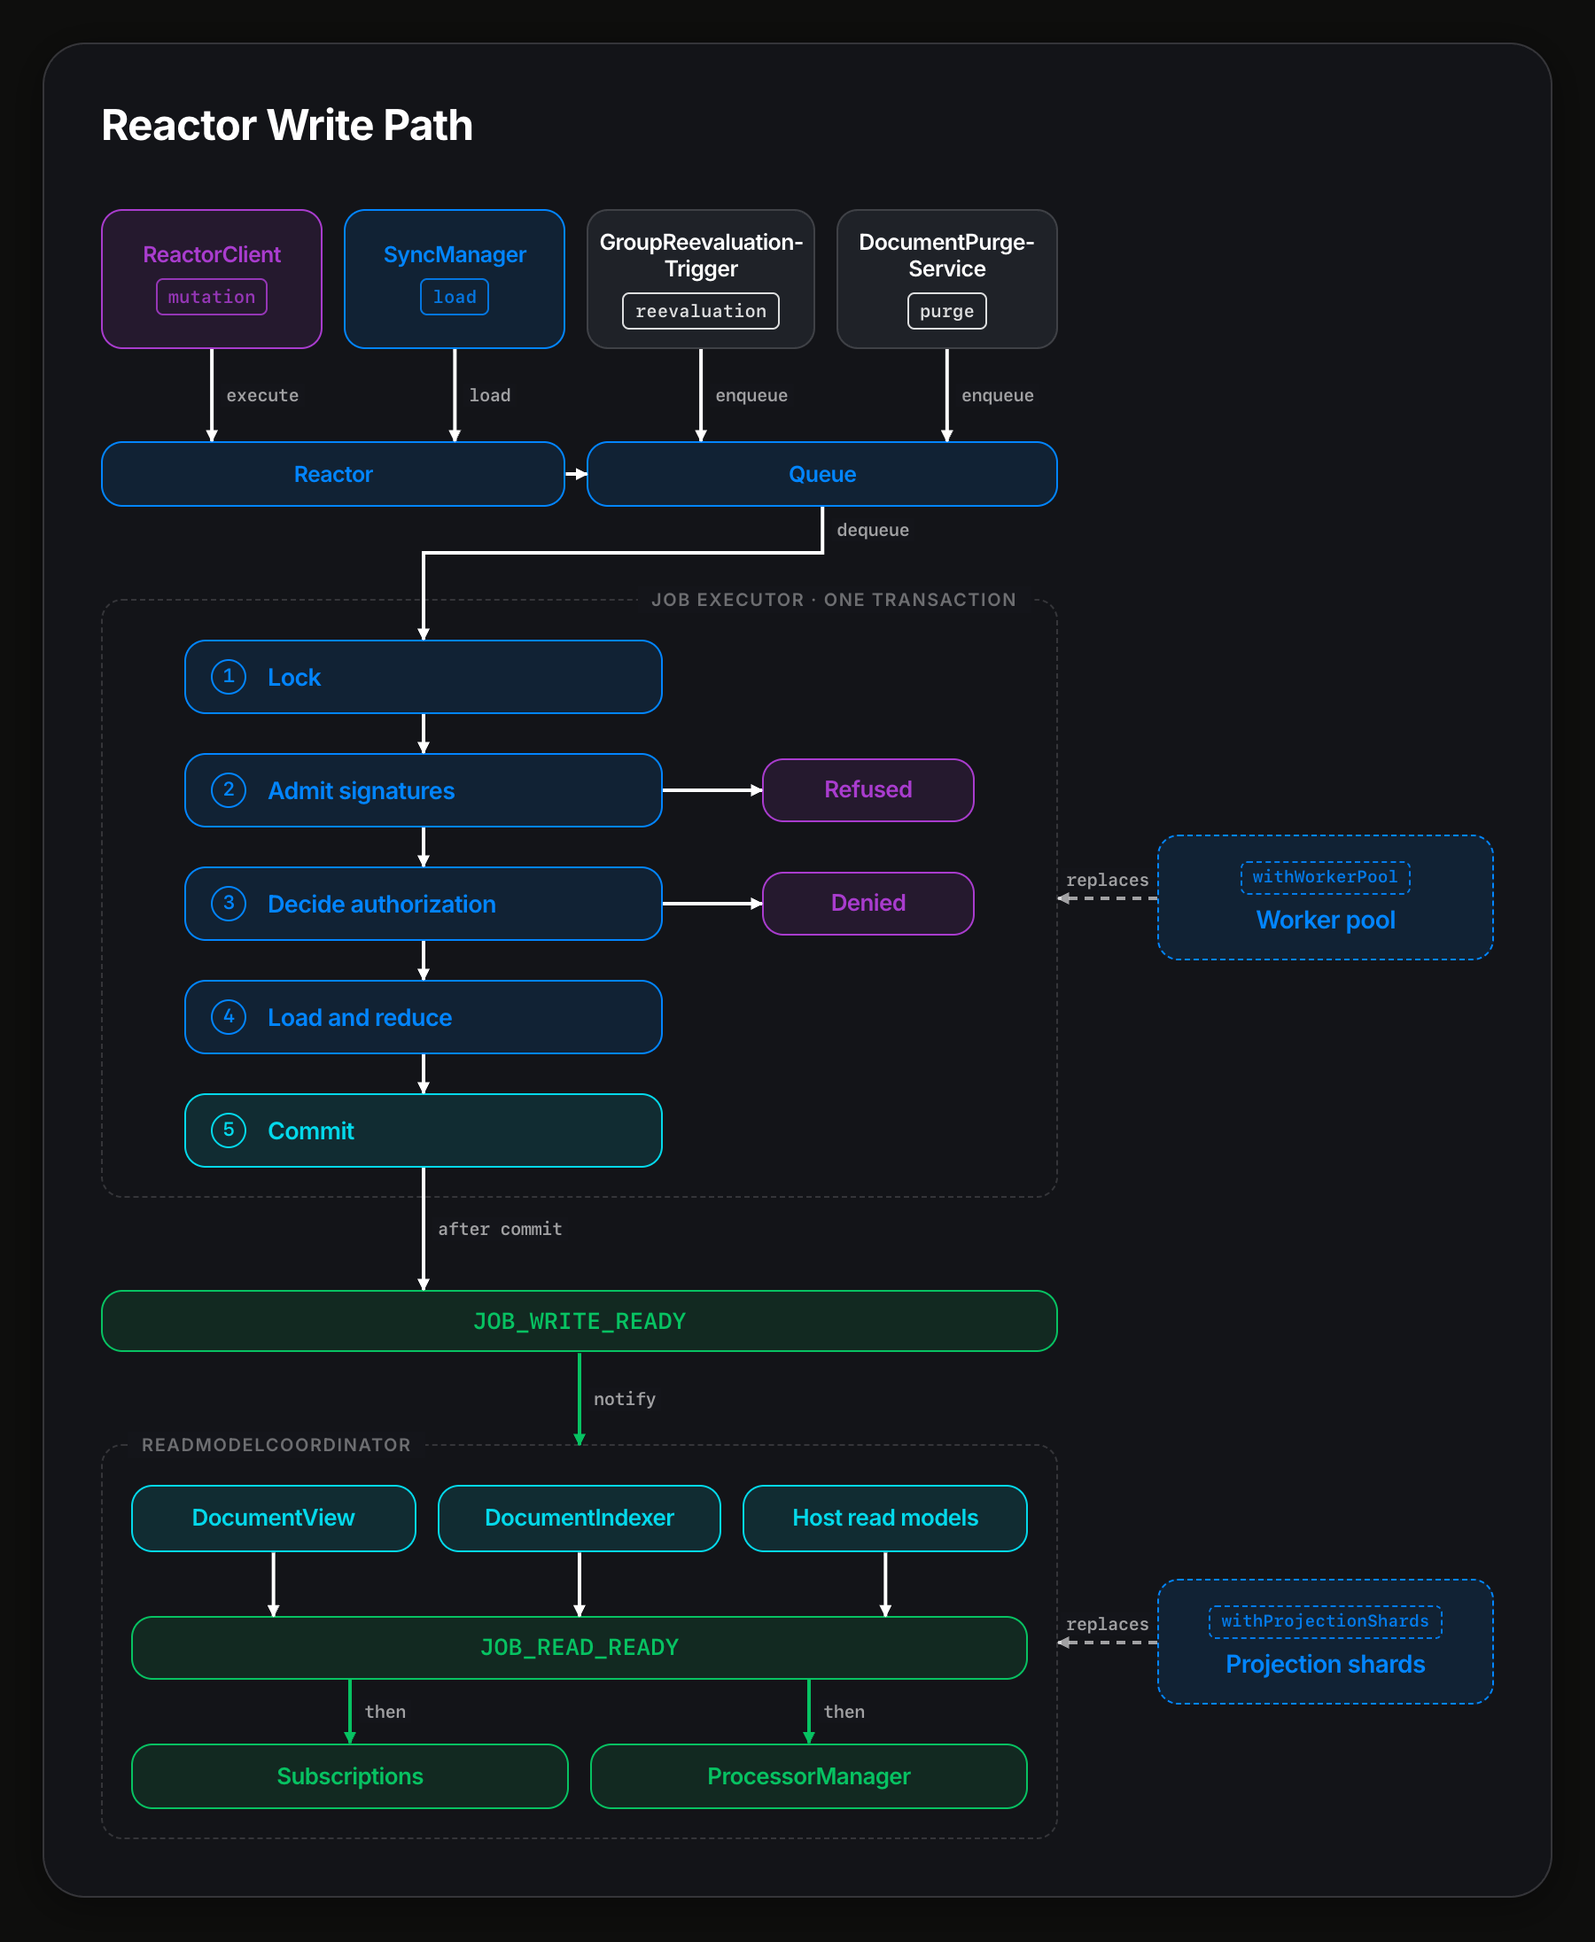
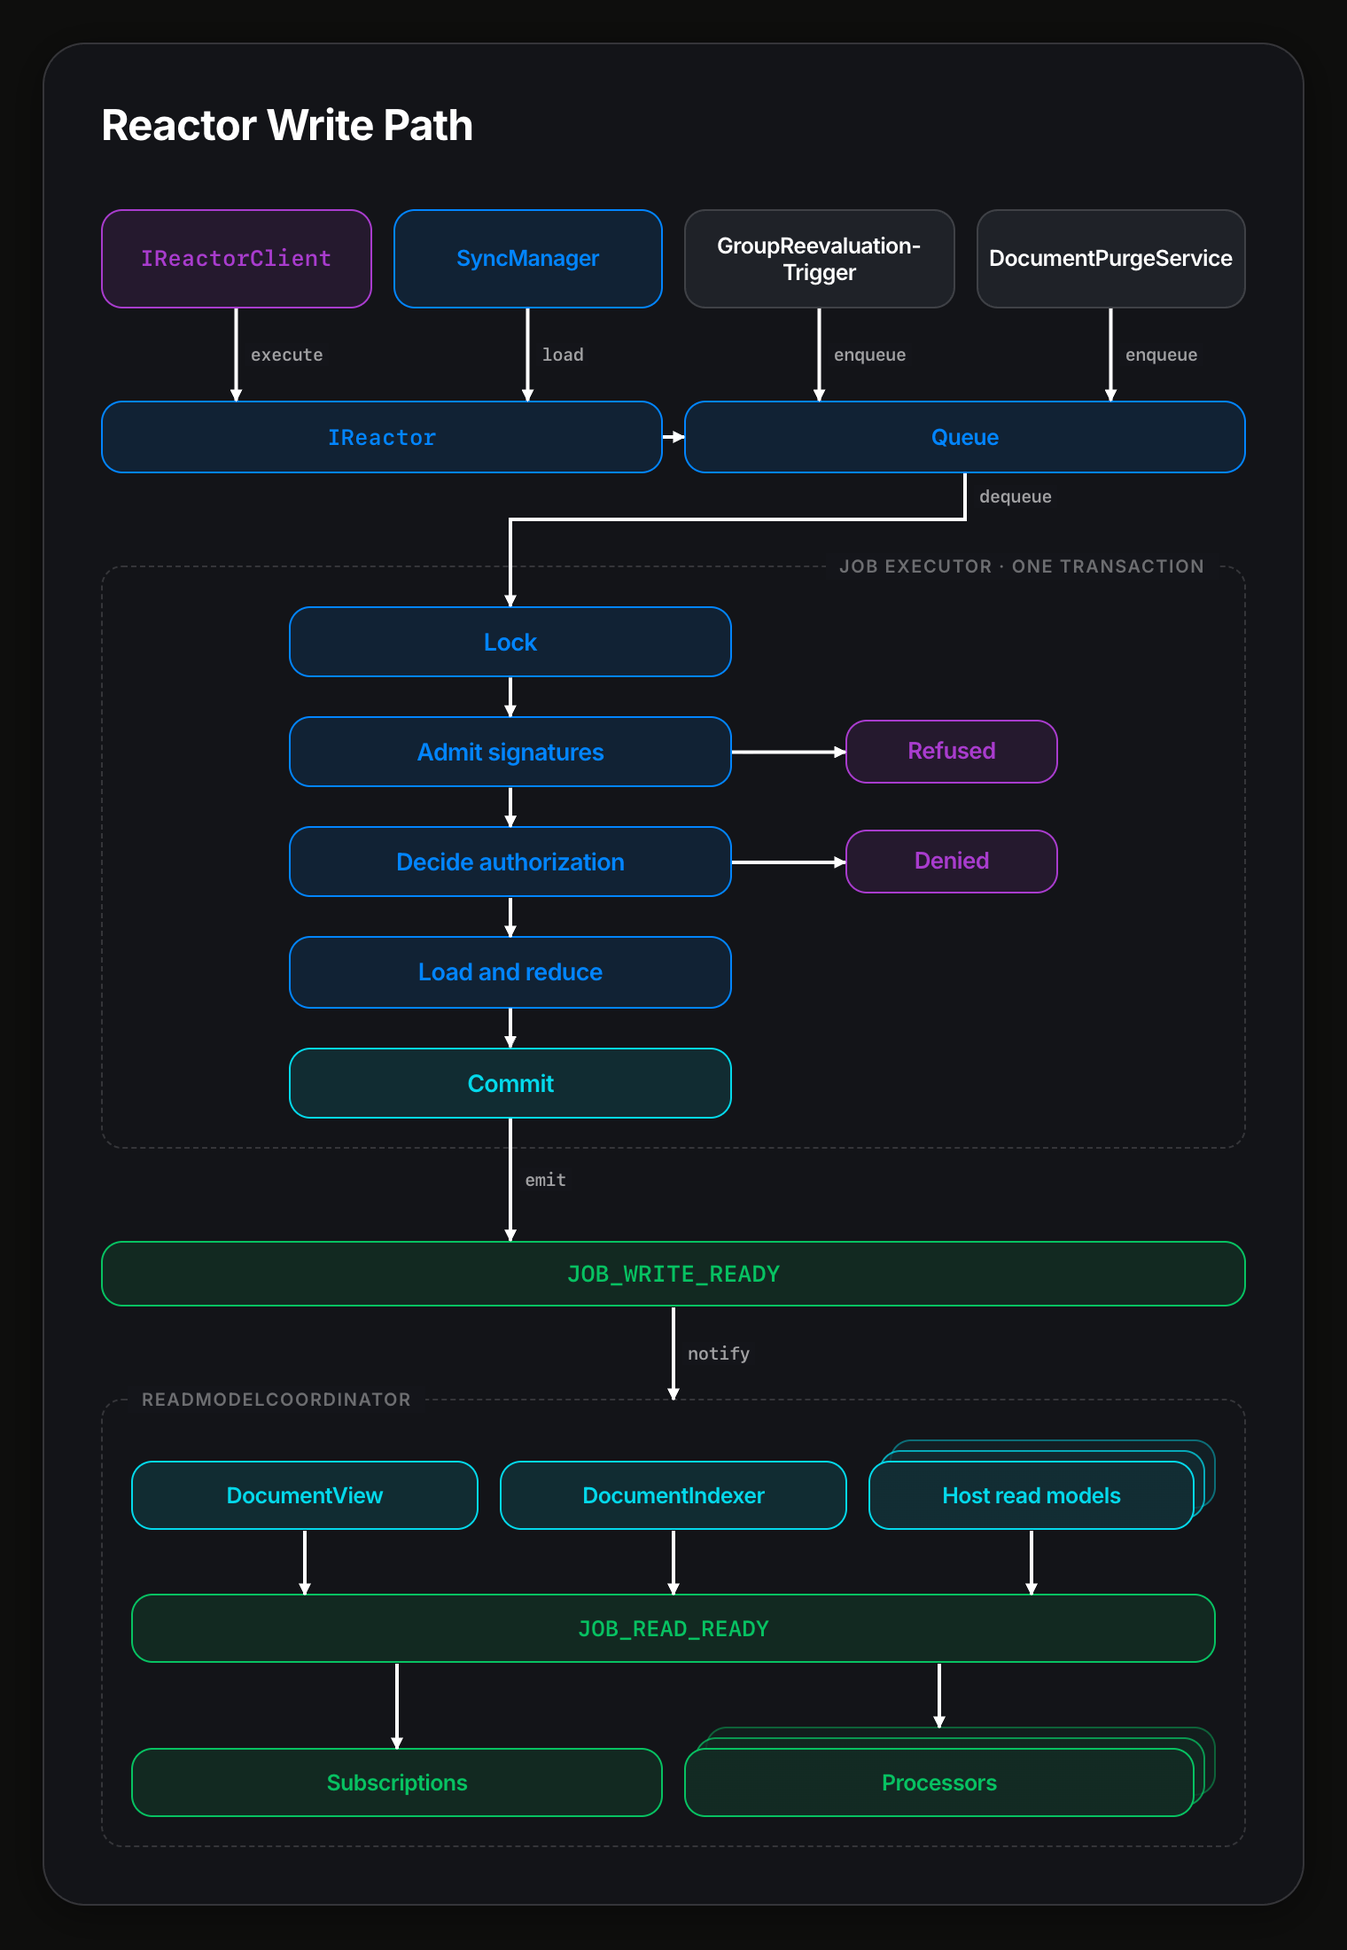
reactor write path: apply the components rules
Boxes hold only names: no job-kind chips, step numbers or builder
tags. The worker-pool and projection-shard variants are gone, every
edge shares one colour, and labels are one word. The client and facade
appear as IReactorClient and IReactor, and host read models and
processors are drawn as fan-out stacks. The page narrows to 760.

diff --git a/pages/reactor-write-path.html b/pages/reactor-write-path.html
@@ -10,7 +10,7 @@
   <link rel="stylesheet" href="../css/components.css">
   <style>
     .frame {
-      max-width: 900px;
+      max-width: 760px;
     }
     .card {
       height: auto;
@@ -132,111 +132,79 @@
     /* ── Layout ── */
     .diagram {
       position: relative;
-      display: grid;
-      grid-template-columns: 1fr 190px;
-      column-gap: 56px;
-      row-gap: 52px;
+      display: flex;
+      flex-direction: column;
+      gap: 52px;
     }
-    .spine { grid-column: 1; }
-    .side  { grid-column: 2; display: flex; flex-direction: column; justify-content: center; }
-
     .entry {
       display: grid;
       grid-template-columns: repeat(4, 1fr);
       column-gap: 12px;
       row-gap: 52px;
     }
-    .entry .box { padding: 10px 6px; }
+    .entry .box { padding: 12px 6px; }
     .entry .box-title { font-size: 12.5px; }
     .entry .wide { grid-column: span 2; }
 
     .exec {
       display: grid;
-      grid-template-columns: 270px 120px;
+      grid-template-columns: 250px 120px;
       justify-content: center;
-      column-gap: 56px;
+      column-gap: 64px;
       row-gap: 22px;
       align-items: center;
     }
-    .step {
-      flex-direction: row;
-      justify-content: flex-start;
-      gap: 12px;
-      padding: 10px 14px;
-      grid-column: 1;
-    }
-    .step-num {
-      font-family: 'SF Mono', 'Fira Code', monospace;
-      font-size: 11px;
-      font-weight: var(--font-weight-semibold);
-      width: 20px;
-      height: 20px;
-      border-radius: 50%;
-      border: 1px solid currentColor;
-      display: flex;
-      align-items: center;
-      justify-content: center;
-      flex-shrink: 0;
-    }
+    .step { grid-column: 1; padding: 11px 14px; }
     .step .box-title { font-size: 13.5px; }
     .outcome { grid-column: 2; padding: 9px 10px; }
     .outcome .box-title { font-size: 13px; }
-
-    .event-bar {
-      border: 1px solid var(--accent-green);
-      background: var(--accent-green-bg);
-      color: var(--accent-green);
-      border-radius: var(--radius-md);
-      padding: 9px 14px;
-      text-align: center;
-    }
+    .event { padding: 10px 14px; }
 
     .readside {
       display: grid;
       grid-template-columns: repeat(6, 1fr);
       column-gap: 12px;
       row-gap: 36px;
+      align-items: end;
     }
-    .readside .box { padding: 10px 6px; }
-    .readside .box-title { font-size: 13px; }
+    .readside .box { padding: 11px 6px; }
+    .readside .box-title { font-size: 12.5px; }
     .readside .s2 { grid-column: span 2; }
     .readside .s3 { grid-column: span 3; }
     .readside .full { grid-column: 1 / -1; }
-
-    .side .box { padding: 14px 12px; }
   </style>
 </head>
 <body>
   <!--
     Element → source map (paths relative to packages/reactor/src in the powerhouse monorepo).
-    Line numbers as of main a30562aeca.
+    Line numbers as of main a30562aeca. All edges share one colour.
 
-    ReactorClient · mutation .. client/reactor-client.ts:1033 signActions → :1040 reactor.execute → :1046 waitForJob
-    SyncManager · load ........ sync/sync-manager.ts:2863 reactor.load, :3064 reactor.loadBatch
+    IReactorClient ............ client/types.ts:264; execute: client/reactor-client.ts:1033 signActions → :1040 this.reactor.execute
+    SyncManager ............... sync/sync-manager.ts:2863 reactor.load, :3064 reactor.loadBatch
     GroupReevaluationTrigger .. core/group-reevaluation-trigger.ts:52; reevaluation job :166, queue.enqueue :182
     DocumentPurgeService ...... admin/document-purge-service.ts:19; purge job :51, queue.enqueue :82
-    Reactor ................... core/reactor.ts:83; execute :659, load :717; JOB_PENDING :1197; queue.enqueue :710, :773
+    IReactor .................. core/types.ts:138; core/reactor.ts:83 (execute :659, load :717); JOB_PENDING :1197; queue.enqueue :710, :773
     Queue ..................... queue/queue.ts:22; JOB_AVAILABLE :202; one job per document :81, :280
     dequeue ................... executor/simple-job-executor-manager.ts:88 (on JOB_AVAILABLE), :139 processNextJob
-    Job executor · one txn .... executor/execution-scope.ts:78, :94-106; executor/simple-job-executor.ts:415
-    1 Lock .................... simple-job-executor.ts:614 documentLocks.shared, :620 purged, :635 FencedWriteCache, :654 operationIndex.start
-    2 Admit signatures ........ simple-job-executor.ts:738 admitMutation, :2901 admitLoad; executor/signature-admission.ts:109 (trust policy), :118
+    Job executor (group) ...... executor/execution-scope.ts:78, :94-106 (one transaction); executor/simple-job-executor.ts:415
+    Lock ...................... simple-job-executor.ts:614 documentLocks.shared, :620 purged, :635 FencedWriteCache, :654 operationIndex.start
+    Admit signatures .......... simple-job-executor.ts:738 admitMutation, :2901 admitLoad; executor/signature-admission.ts:109, :118
       Refused ................. simple-job-executor.ts:752 (mutation: error result, nothing stored), :2916 (load operation dropped);
                                 SIGNATURE_REFUSED signature-admission.ts:510
-    3 Decide authorization .... simple-job-executor.ts:1650 decideAtHead; decision/registered-model.ts:62, :104; by position :2462-2507 evaluatePositioned
-      Denied .................. at head :1671-1682 (error result, nothing stored); by position :1809-1817 (stored with deniedReason, state unchanged)
-    4 Load and reduce ......... simple-job-executor.ts:1748 writeCache.getState (cache/kysely-write-cache.ts:629 keyframe rebuild), :1861 module.reducer
-    5 Commit .................. simple-job-executor.ts:1951 commitPreparedWrites (operationStore.apply :1968, writeCache.putRun :2033), :839 operationIndex.commit
-    after commit .............. simple-job-executor.ts:446-461
-    JOB_WRITE_READY ........... simple-job-executor.ts:461; read-models/coordinator.ts:119
-    Worker pool ............... executor/worker-pool-job-executor-manager.ts:138, :247, :398 (core/reactor-builder.ts:693 withWorkerPool, :1115)
-    ReadModelCoordinator ...... read-models/coordinator.ts:96; pre-ready :252-264; JOB_READ_READY :272; post-ready :282-294
+    Decide authorization ...... simple-job-executor.ts:1650 decideAtHead; decision/registered-model.ts:62, :104; by position :2462-2507
+      Denied .................. at head :1671-1682 (error result, nothing stored); by position :1809-1817 (stored with deniedReason)
+    Load and reduce ........... simple-job-executor.ts:1748 writeCache.getState (cache/kysely-write-cache.ts:629), :1861 module.reducer
+    Commit .................... simple-job-executor.ts:1951 commitPreparedWrites (:1968 operationStore.apply, :2033 writeCache.putRun),
+                                :839 operationIndex.commit
+    emit ...................... simple-job-executor.ts:446-461 (after commit, JOB_WRITE_READY)
+    JOB_WRITE_READY ........... events/types.ts:57-68
+    notify .................... read-models/coordinator.ts:119
+    ReadModelCoordinator ...... read-models/coordinator.ts:96; chain key :353-355; pre-ready :253-254; JOB_READ_READY :272; post-ready :283-284
       DocumentView ............ read-models/document-view.ts:63
       DocumentIndexer ......... storage/kysely/document-indexer.ts:66
-      Host read models ........ core/reactor-builder.ts:473, :485
+      Host read models [stack]  core/reactor-builder.ts:473, :485, :1166-1168 (callerReadModels list)
       Subscriptions ........... subs/subscription-notification-read-model.ts:20
-      ProcessorManager ........ processors/processor-manager.ts:84
-    Projection shards ......... projection/projection-shard-manager.ts:301, :356 (core/reactor-builder.ts:710 withProjectionShards, :1324)
+      Processors [stack] ...... processors/processor-manager.ts:84, :89 (processorsByDrive), :741
   -->
   <div class="frame">
     <div class="card">
@@ -246,67 +214,39 @@
         <div class="diagram" id="diagram">
           <svg class="wires" id="wires"></svg>
 
-          <div class="spine entry">
-            <div class="box accent-purple" id="p-client">
-              <div class="box-title">ReactorClient</div>
-              <div class="chips"><span class="chip">mutation</span></div>
-            </div>
-            <div class="box accent-blue" id="p-sync">
-              <div class="box-title">SyncManager</div>
-              <div class="chips"><span class="chip">load</span></div>
-            </div>
-            <div class="box" id="p-trigger">
-              <div class="box-title">GroupReevaluationTrigger</div>
-              <div class="chips"><span class="chip">reevaluation</span></div>
-            </div>
-            <div class="box" id="p-purge">
-              <div class="box-title">DocumentPurgeService</div>
-              <div class="chips"><span class="chip">purge</span></div>
-            </div>
-            <div class="box accent-blue wide" id="reactor"><div class="box-title">Reactor</div></div>
+          <div class="entry">
+            <div class="box accent-purple" id="p-client"><div class="box-title mono">IReactorClient</div></div>
+            <div class="box accent-blue" id="p-sync"><div class="box-title">SyncManager</div></div>
+            <div class="box" id="p-trigger"><div class="box-title">GroupReevaluationTrigger</div></div>
+            <div class="box" id="p-purge"><div class="box-title">DocumentPurgeService</div></div>
+            <div class="box accent-blue wide" id="reactor"><div class="box-title mono">IReactor</div></div>
             <div class="box accent-blue wide" id="queue"><div class="box-title">Queue</div></div>
           </div>
-          <div class="side"></div>
 
-          <div class="spine group" id="exec-group">
+          <div class="group" id="exec-group">
             <span class="group-label right">Job executor · one transaction</span>
             <div class="exec">
-              <div class="box accent-blue step" id="s1"><span class="step-num">1</span><div class="box-title">Lock</div></div>
-              <div class="box accent-blue step" id="s2"><span class="step-num">2</span><div class="box-title">Admit signatures</div></div>
+              <div class="box accent-blue step" id="s1"><div class="box-title">Lock</div></div>
+              <div class="box accent-blue step" id="s2"><div class="box-title">Admit signatures</div></div>
               <div class="box accent-purple outcome" id="o2"><div class="box-title">Refused</div></div>
-              <div class="box accent-blue step" id="s3"><span class="step-num">3</span><div class="box-title">Decide authorization</div></div>
+              <div class="box accent-blue step" id="s3"><div class="box-title">Decide authorization</div></div>
               <div class="box accent-purple outcome" id="o3"><div class="box-title">Denied</div></div>
-              <div class="box accent-blue step" id="s4"><span class="step-num">4</span><div class="box-title">Load and reduce</div></div>
-              <div class="box accent-cyan step" id="s5"><span class="step-num">5</span><div class="box-title">Commit</div></div>
-            </div>
-          </div>
-          <div class="side">
-            <div class="box accent-blue variant" id="v-pool">
-              <span class="variant-tag">withWorkerPool</span>
-              <div class="box-title">Worker pool</div>
+              <div class="box accent-blue step" id="s4"><div class="box-title">Load and reduce</div></div>
+              <div class="box accent-cyan step" id="s5"><div class="box-title">Commit</div></div>
             </div>
           </div>
 
-          <div class="spine event-bar" id="ev-write">
-            <div class="box-title mono">JOB_WRITE_READY</div>
-          </div>
-          <div class="side"></div>
+          <div class="box accent-green event" id="ev-write"><div class="box-title mono">JOB_WRITE_READY</div></div>
 
-          <div class="spine group" id="read-group">
+          <div class="group" id="read-group">
             <span class="group-label">ReadModelCoordinator</span>
             <div class="readside">
               <div class="box accent-cyan s2" id="r-view"><div class="box-title">DocumentView</div></div>
               <div class="box accent-cyan s2" id="r-index"><div class="box-title">DocumentIndexer</div></div>
-              <div class="box accent-cyan s2" id="r-host"><div class="box-title">Host read models</div></div>
-              <div class="event-bar full" id="ev-read"><div class="box-title mono">JOB_READ_READY</div></div>
+              <div class="fanout accent-cyan s2" id="r-host"><div class="box accent-cyan"><div class="box-title">Host read models</div></div></div>
+              <div class="box accent-green event full" id="ev-read"><div class="box-title mono">JOB_READ_READY</div></div>
               <div class="box accent-green s3" id="r-subs"><div class="box-title">Subscriptions</div></div>
-              <div class="box accent-green s3" id="r-proc"><div class="box-title">ProcessorManager</div></div>
-            </div>
-          </div>
-          <div class="side">
-            <div class="box accent-blue variant" id="v-shards">
-              <span class="variant-tag">withProjectionShards</span>
-              <div class="box-title">Projection shards</div>
+              <div class="fanout accent-green s3" id="r-proc"><div class="box accent-green"><div class="box-title">Processors</div></div></div>
             </div>
           </div>
         </div>
@@ -315,19 +255,19 @@
   </div>
 
   <script>
-    // Orthogonal wires drawn over the grid from element rects. Redrawn on
+    // Orthogonal wires drawn over the layout from element rects. Redrawn on
     // resize and once web fonts load, so label widths never shift a box away
     // from its wire.
     const NS = 'http://www.w3.org/2000/svg';
 
     function wires(R) {
+      const F = 12;
       const pc = R('p-client'), ps = R('p-sync'), pt = R('p-trigger'), pp = R('p-purge');
       const re = R('reactor'), q = R('queue'), eg = R('exec-group');
       const s = [1, 2, 3, 4, 5].map((i) => R('s' + i));
       const o2 = R('o2'), o3 = R('o3');
       const ew = R('ev-write'), rg = R('read-group'), er = R('ev-read');
       const rv = R('r-view'), ri = R('r-index'), rh = R('r-host'), rs = R('r-subs'), rp = R('r-proc');
-      const vp = R('v-pool'), vs = R('v-shards');
       const midY = (a, b) => (a.b + b.t) / 2;
       const out = [
         { cls: 'w-call', pts: [[pc.cx, pc.b], [pc.cx, re.t]], label: 'execute', seg: 0 },
@@ -336,17 +276,15 @@
         { cls: 'w-call', pts: [[pp.cx, pp.b], [pp.cx, q.t]], label: 'enqueue', seg: 0 },
         { cls: 'w-call', pts: [[re.r, re.cy], [q.l, re.cy]], label: '', seg: 0 },
         { cls: 'w-call', pts: [[q.cx, q.b], [q.cx, midY(q, eg)], [s[0].cx, midY(q, eg)], [s[0].cx, s[0].t]], label: 'dequeue', seg: 0 },
-        { cls: 'w-call', pts: [[s[4].cx, s[4].b], [s[4].cx, ew.t]], label: 'after commit', seg: 0 },
-        { cls: 'w-event', pts: [[ew.cx, ew.b], [ew.cx, rg.t]], label: 'notify', seg: 0 },
+        { cls: 'w-call', pts: [[s[1].r, s[1].cy], [o2.l, s[1].cy]], label: '', seg: 0 },
+        { cls: 'w-call', pts: [[s[2].r, s[2].cy], [o3.l, s[2].cy]], label: '', seg: 0 },
+        { cls: 'w-call', pts: [[s[4].cx, s[4].b], [s[4].cx, ew.t]], label: 'emit', seg: 0 },
+        { cls: 'w-call', pts: [[ew.cx, ew.b], [ew.cx, rg.t]], label: 'notify', seg: 0 },
         { cls: 'w-call', pts: [[rv.cx, rv.b], [rv.cx, er.t]], label: '', seg: 0 },
         { cls: 'w-call', pts: [[ri.cx, ri.b], [ri.cx, er.t]], label: '', seg: 0 },
         { cls: 'w-call', pts: [[rh.cx, rh.b], [rh.cx, er.t]], label: '', seg: 0 },
-        { cls: 'w-event', pts: [[rs.cx, er.b], [rs.cx, rs.t]], label: 'then', seg: 0 },
-        { cls: 'w-event', pts: [[rp.cx, er.b], [rp.cx, rp.t]], label: 'then', seg: 0 },
-        { cls: 'w-dash', pts: [[vp.l, vp.cy], [eg.r, vp.cy]], label: 'replaces', seg: 0 },
-        { cls: 'w-dash', pts: [[vs.l, vs.cy], [rg.r, vs.cy]], label: 'replaces', seg: 0 },
-        { cls: 'w-call', pts: [[s[1].r, s[1].cy], [o2.l, s[1].cy]], label: '', seg: 0 },
-        { cls: 'w-call', pts: [[s[2].r, s[2].cy], [o3.l, s[2].cy]], label: '', seg: 0 },
+        { cls: 'w-call', pts: [[rs.cx, er.b], [rs.cx, rs.t]], label: '', seg: 0 },
+        { cls: 'w-call', pts: [[rp.cx, er.b], [rp.cx, rp.t - F]], label: '', seg: 0 },
       ];
       for (let i = 0; i < 4; i++) out.push({ cls: 'w-call', pts: [[s[i].cx, s[i].b], [s[i].cx, s[i + 1].t]], label: '', seg: 0 });
       return out;

diff --git a/index.html b/index.html
@@ -446,7 +446,7 @@
       <p>Job producers to READ_READY &mdash; signature admission, authorization decision, reduce and commit in one transaction, then the read models.</p>
       <div class="meta">
         <span class="tag">Reactor Architecture</span>
-        <span>900 &times; 900</span>
+        <span>760 &times; 900</span>
       </div>
     </a>
 
